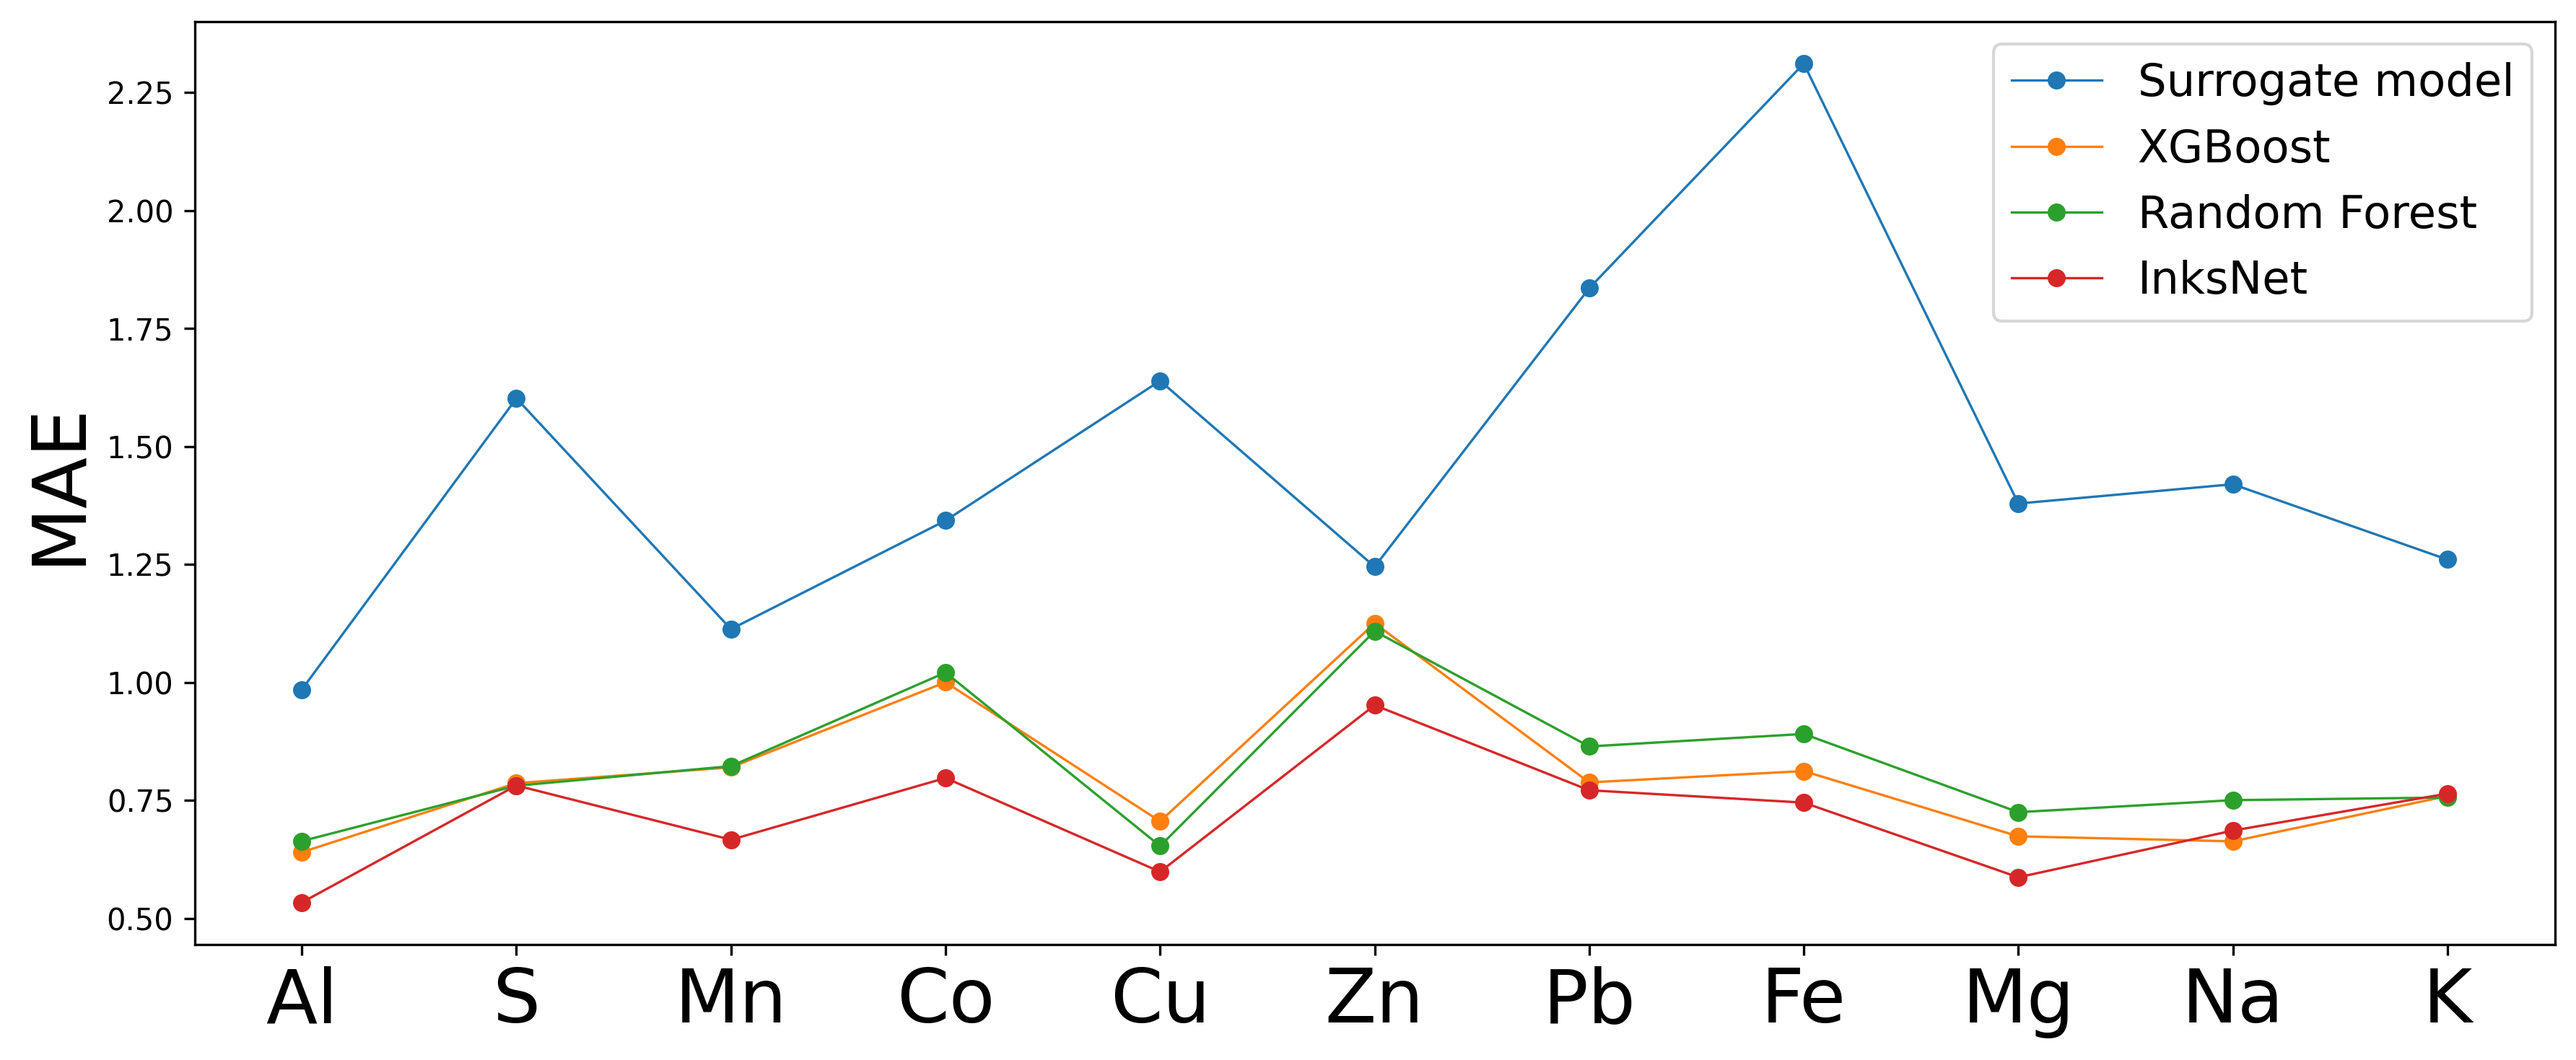
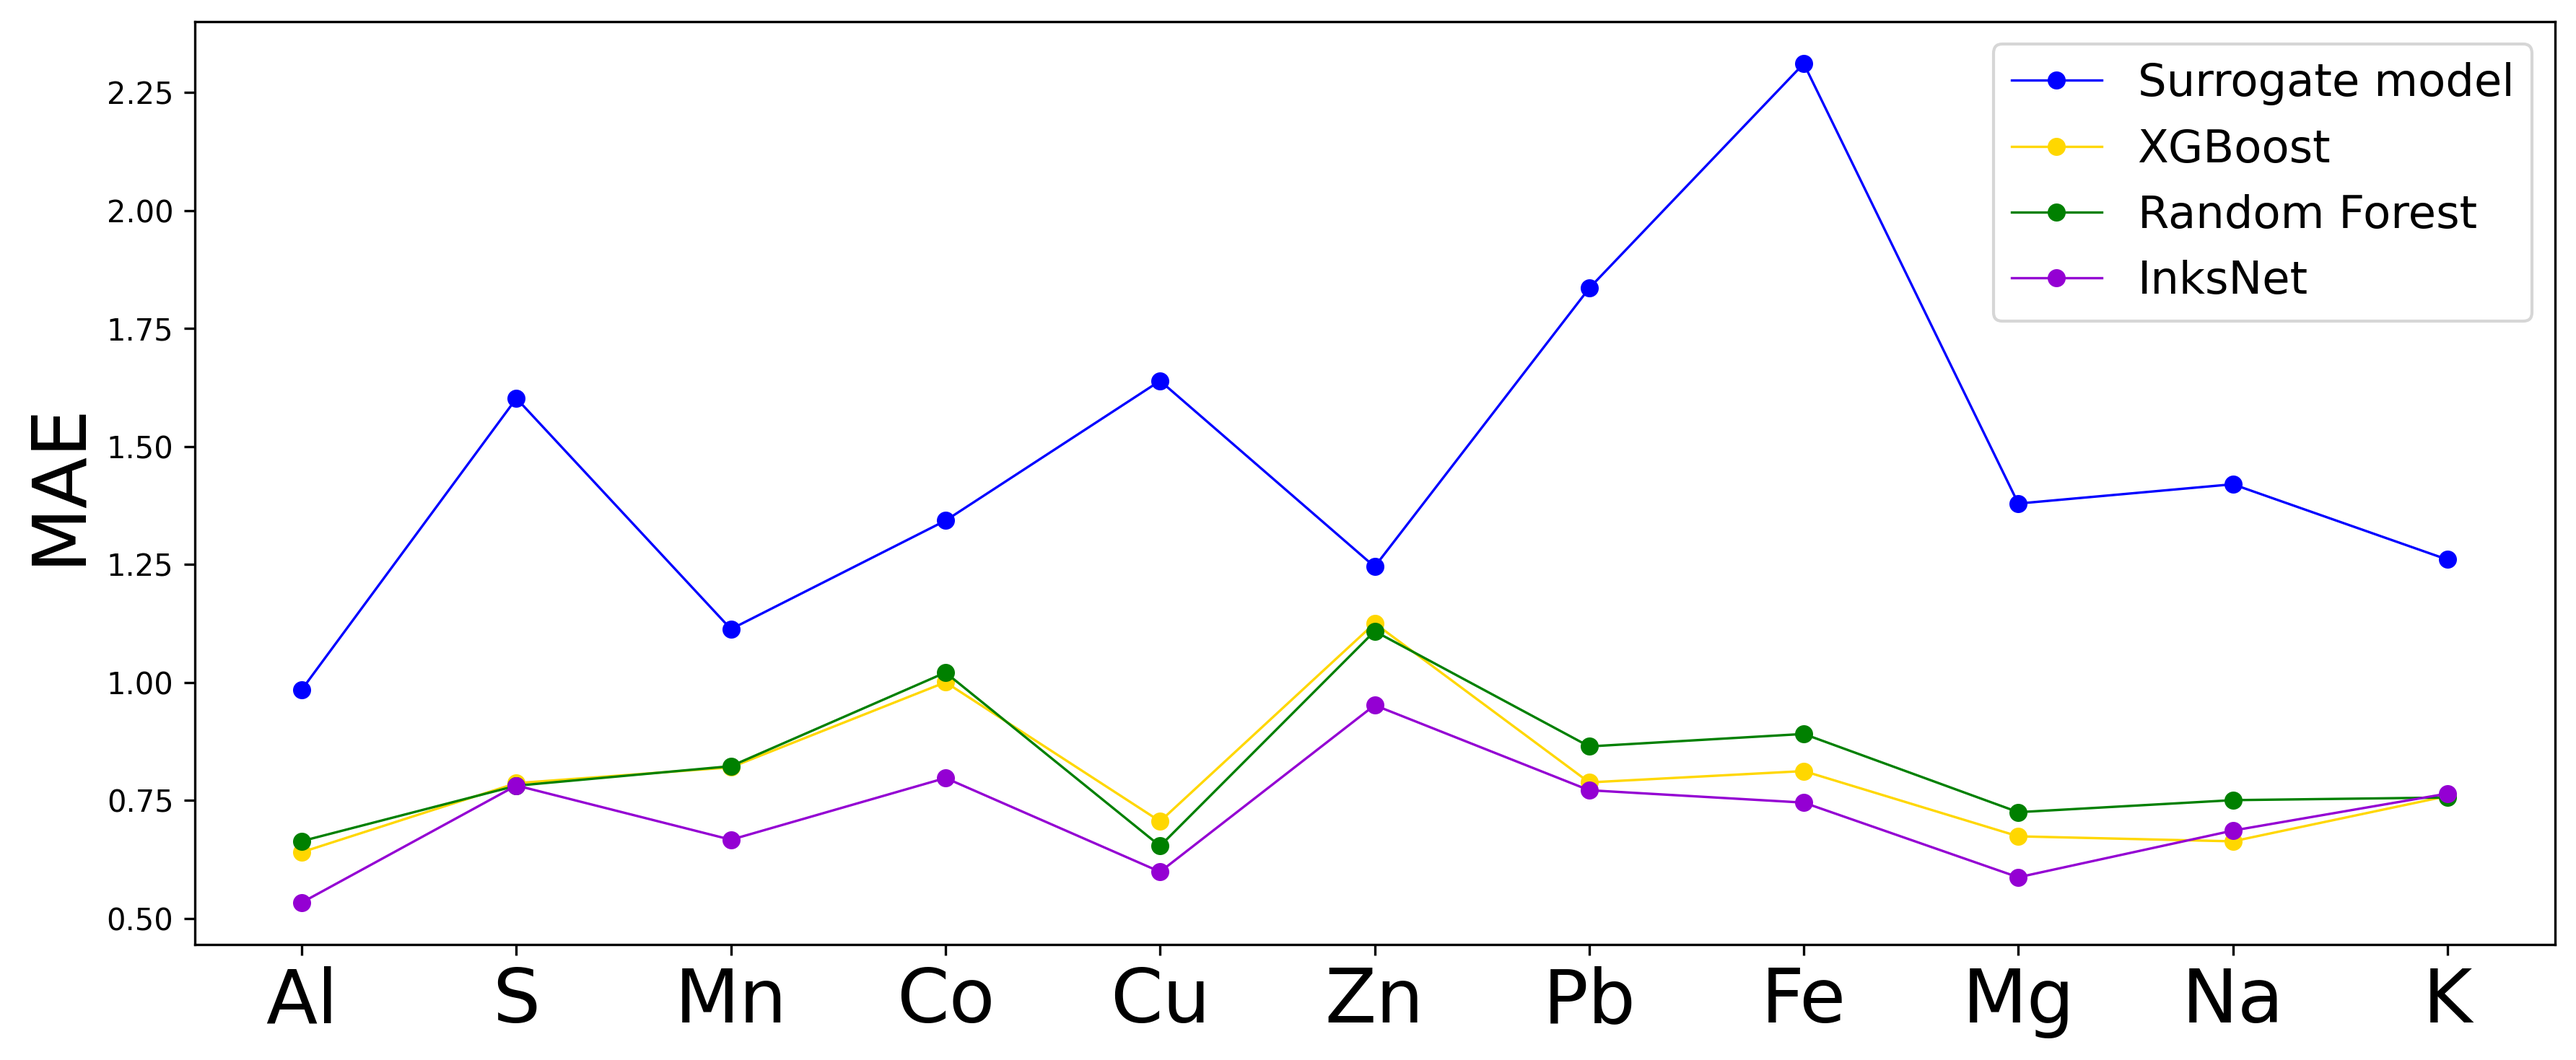
Added new visualisations

diff --git a/src/train_and_evaluate.py b/src/train_and_evaluate.py
@@ -284,18 +284,20 @@ def compute_metrics(outputs, labels):
         bias.append(np.mean(y_pred - y_true))
         max_error.append(np.max(np.abs(y_pred - y_true)))
 
-    l2_error = np.linalg.norm(outputs - labels, axis=1)
+    l2 = np.linalg.norm(outputs - labels, axis=0)
 
     summary = {
         "mae": np.array(mae),
         "rmse": np.array(rmse),
         "r2": np.array(r2),
+        "l2": np.array(l2),
         "bias": np.array(bias),
-        "mean_mae": float(np.mean(mae)),
-        "mean_rmse": float(np.mean(rmse)),
-        "mean_r2": float(np.mean(r2)),
-        "mean_l2": float(np.mean(l2_error)),
-        "max_error": np.array(max_error)
+        "max_error": np.array(max_error),
+        "mean_mae": mean_absolute_error(outputs, labels),
+        "mean_rmse": np.sqrt(mean_squared_error(outputs, labels)),
+        "mean_r2": r2_score(outputs, labels),
+        "mean_l2": np.linalg.norm(outputs - labels),
+        "mean_max_error": np.mean(np.max(np.abs(outputs - labels)))
     }
 
     return summary
@@ -719,13 +721,13 @@ def plot_pca_projection(outputs, labels, figsize=(8, 5), path_to_save=None, max_
     plt.close(fig)
 
 
-def plot_model_element(errors, model_names, elements_to_keep, figsize=(12, 5), ylabel='MAE', y_upper_lim=None, y_lower_lim=None, path_to_save=None):
+def plot_model_element(errors, model_names, elements_to_keep, figsize=(12, 5), ylabel='MAE', colors = ['blue', 'gold', 'green', 'darkviolet'], y_upper_lim=None, y_lower_lim=None, path_to_save=None):
 
     plt.figure(figsize=figsize)
 
     for i in range(len(errors)):
 
-        plt.plot(range(len(errors[i])), errors[i], "o-", linewidth=0.8, markersize=5, label=model_names[i])
+        plt.plot(range(len(errors[i])), errors[i], "o-", linewidth=0.8, markersize=5, label=model_names[i], color=colors[i])
 
 
     # Eleven labels on the horizontal axis
@@ -752,12 +754,42 @@ def heatmap_model_element(errors, model_names, elements_to_keep, figsize=(12, 5)
 
             df.loc[model, el] = errors[j][i]
 
+    df.sort_values(by='Surrogate model', axis=1, inplace=True)
+
     plt.figure(figsize=figsize)
 
     sns.heatmap(df, annot=False, cmap='rocket_r')
 
-    plt.xticks(np.array(range(len(elements_to_keep)))+0.5, elements_to_keep, size=25)
-    plt.yticks(np.array(range(len(model_names)))+0.5, model_names, size=25, rotation=0)
+    plt.xticks(np.array(range(len(elements_to_keep)))+0.5, df.columns, size=25)
+    plt.yticks(np.array(range(len(model_names)))+0.5, df.index, size=25, rotation=0)
+
+    plt.tight_layout()
+
+    if path_to_save:
+        plt.savefig(path_to_save, dpi=300, bbox_inches="tight")
+    plt.show()
+    plt.close()
+
+
+def plot_model_metric(summaries, model_names, errors_names, official_errors_names, colors = ['blue', 'gold', 'green', 'darkviolet'], figsize=(12, 5), path_to_save=None):
+
+    plt.figure(figsize=figsize)
+
+    mean_errors = pd.DataFrame(index=model_names, columns=errors_names, dtype=float)
+
+    for err in errors_names:
+
+        for j, model in enumerate(model_names):
+
+            mean_errors.loc[model, err] = summaries[j][err]
+
+    for row_nr in range(mean_errors.shape[0]):
+
+        plt.plot(range(len(errors_names)), mean_errors.iloc[row_nr, :], "o-", linewidth=0.8, markersize=5, label=model_names[row_nr], color=colors[row_nr])
+
+    plt.xticks(range(len(official_errors_names)), official_errors_names, size=25)
+
+    plt.legend(fontsize=15)
 
     plt.tight_layout()
 
@@ -791,6 +823,72 @@ def heatmap_model_metric(summaries, model_names, errors_names, official_errors_n
         plt.savefig(path_to_save, dpi=300, bbox_inches="tight")
     plt.show()
     plt.close()
+
+
+def plot_error_distributions_for_different_models(
+                                                    outputs, 
+                                                    labels, 
+                                                    model_names, 
+                                                    elements_to_keep, 
+                                                    colors = ['gold', 'darkviolet'], 
+                                                    dims_to_keep='all', 
+                                                    nrows=2, 
+                                                    figsize=(10, 5), 
+                                                    xlabel='Residual', 
+                                                    ylabel='Count', 
+                                                    path_to_save=None
+                                                    ):
+
+    assert len(outputs) == len(model_names)
+
+    if dims_to_keep == 'all':
+        dims_to_keep = list(range(len(elements_to_keep)))
+
+    n_dims = len(dims_to_keep)
+    in_dims_to_keep = [i in dims_to_keep for i in np.array(range(outputs[0].shape[1]))]
+    labels = labels[:, in_dims_to_keep]
+    outputs = [output[:, in_dims_to_keep] for output in outputs]
+    elements_to_keep = [elements_to_keep[i] for i in dims_to_keep]
+
+    fig, axes = plt.subplots(nrows, n_dims//nrows + 1 if nrows==2 else n_dims//nrows, figsize=figsize, sharey=True, sharex=True)
+    if len(dims_to_keep)>1:
+        axes = axes.flatten()
+
+    y_max_max = (outputs-labels).max().max()
+
+    for i in range(n_dims):
+
+        if len(dims_to_keep)>1:
+            ax = axes[i]
+        else:
+            ax = axes
+            
+        y_true = labels[:, i]
+
+        for j, model in enumerate(model_names):
+
+            y_pred = outputs[j][:, i]
+            residuals = y_pred-y_true
+            sns.histplot(residuals, kde=True, ax=ax, color=colors[j], label=model_names[j], alpha=0.5)
+
+        ax.set(ylabel='')
+
+        title = elements_to_keep[i]
+
+        ax.set_title(title, size=10)
+        ax.tick_params(axis='both', labelsize=5)
+
+    if nrows==2:
+        axes[-1].set_axis_off()
+
+    fig.text(0.52, 0.0, xlabel, ha='center', size=25)
+    fig.text(0.06, 0.5, ylabel, va='center', rotation='vertical', size=25)
+
+    #plt.tight_layout()
+    if path_to_save:
+        plt.savefig(path_to_save+'error_distributions.png', dpi=300, bbox_inches="tight")
+    plt.show()
+    plt.close(fig)
 
 # CLASSIFICATION-BASED STATISTICS AND VISUALISATIONS PART 1
 

diff --git a/analysis/4_5_comparison_with_benchmark.py b/analysis/4_5_comparison_with_benchmark.py
@@ -203,6 +203,21 @@ r2_rf = summary_rf['r2']
 r2_xgboost = summary_xgboost['r2']
 r2_nn = summary_nn['r2']
 
+l2_sur = summary_sur['l2']
+l2_rf = summary_rf['l2']
+l2_xgboost = summary_xgboost['l2']
+l2_nn = summary_nn['l2']
+
+max_sur = summary_sur['max_error']
+max_rf = summary_rf['max_error']
+max_xgboost = summary_xgboost['max_error']
+max_nn = summary_nn['max_error']
+
+bias_sur = summary_sur['bias']
+bias_rf = summary_rf['bias']
+bias_xgboost = summary_xgboost['bias']
+bias_nn = summary_nn['bias']
+
 
 # Plots model element
 
@@ -229,14 +244,47 @@ plot_model_element(
                     )
 
 plot_model_element(
-                    errors = [r2_sur, r2_rf, r2_xgboost, r2_nn], 
-                    model_names = model_names, 
-                    elements_to_keep = ELEMENTS_TO_KEEP, 
-                    figsize=(12, 5), 
-                    ylabel='R$^2$', 
+                    errors = [r2_sur, r2_rf, r2_xgboost, r2_nn],
+                    model_names = model_names,
+                    elements_to_keep = ELEMENTS_TO_KEEP,
+                    figsize=(12, 5),
+                    ylabel='R$^2$',
                     # y_lower_lim=-1,
                     # y_upper_lim=1,
                     path_to_save=config["figures_path"]['all'] + 'r2.png'
+                    )
+
+plot_model_element(
+                    errors = [l2_sur, l2_rf, l2_xgboost, l2_nn],
+                    model_names = model_names,
+                    elements_to_keep = ELEMENTS_TO_KEEP,
+                    figsize=(12, 5),
+                    ylabel='L2',
+                    # y_lower_lim=-1,
+                    # y_upper_lim=1,
+                    path_to_save=config["figures_path"]['all'] + 'l2.png'
+                    )
+
+plot_model_element(
+                    errors = [max_sur, max_rf, max_xgboost, max_nn],
+                    model_names = model_names,
+                    elements_to_keep = ELEMENTS_TO_KEEP,
+                    figsize=(12, 5),
+                    ylabel='Max error',
+                    # y_lower_lim=-1,
+                    # y_upper_lim=1,
+                    path_to_save=config["figures_path"]['all'] + 'max.png'
+                    )
+
+plot_model_element(
+                    errors = [bias_sur, bias_rf, bias_xgboost, bias_nn], 
+                    model_names = model_names, 
+                    elements_to_keep = ELEMENTS_TO_KEEP, 
+                    figsize=(12, 5), 
+                    ylabel='Bias', 
+                    # y_lower_lim=-1,
+                    # y_upper_lim=1,
+                    path_to_save=config["figures_path"]['all'] + 'bias.png'
                     )
 
 # Heatmaps model element
@@ -262,7 +310,29 @@ heatmap_model_element(
                         path_to_save = config["figures_path"]['all'] + 'r2_heatmap.png'
                     )
 
-# Plots model metric
+heatmap_model_element(
+                        errors = [l2_sur, l2_rf, l2_xgboost, l2_nn],
+                        model_names = model_names,
+                        elements_to_keep = ELEMENTS_TO_KEEP,
+                        path_to_save = config["figures_path"]['all'] + 'l2_heatmap.png'
+                    )
+
+heatmap_model_element(
+                        errors = [max_sur, max_rf, max_xgboost, max_nn],
+                        model_names = model_names,
+                        elements_to_keep = ELEMENTS_TO_KEEP,
+                        path_to_save = config["figures_path"]['all'] + 'max_heatmap.png'
+                    )
+
+# # Plots model metric
+
+plot_model_metric(
+                        summaries = [summary_sur, summary_rf, summary_xgboost, summary_nn], 
+                        model_names = model_names, 
+                        errors_names = ['mean_mae', 'mean_rmse', 'mean_max_error'],
+                        official_errors_names = ['MAE', 'RMSE', 'Max error'], 
+                        path_to_save=config["figures_path"]['all'] + 'error_plot.png'
+                        )
 
 
 # Heatmaps model metric
@@ -271,7 +341,18 @@ heatmap_model_element(
 heatmap_model_metric(
                         summaries = [summary_sur, summary_rf, summary_xgboost, summary_nn], 
                         model_names = model_names, 
-                        errors_names = ['mean_mae', 'mean_rmse', 'mean_l2'],
-                        official_errors_names = ['MAE', 'RMSE', 'L2'], 
+                        errors_names = ['mean_mae', 'mean_rmse', 'mean_max_error'],
+                        official_errors_names = ['MAE', 'RMSE', 'Max error'], 
                         path_to_save=config["figures_path"]['all'] + 'error_heatmap.png'
                         )
+
+
+# Residual distributions
+
+plot_error_distributions_for_different_models(
+                                                [outputs_rf, outputs_nn], 
+                                                labels, 
+                                                ['Random Forest', 'InksNet'], 
+                                                ELEMENTS_TO_KEEP,  
+                                                path_to_save=config["figures_path"]['all']
+                                                )
